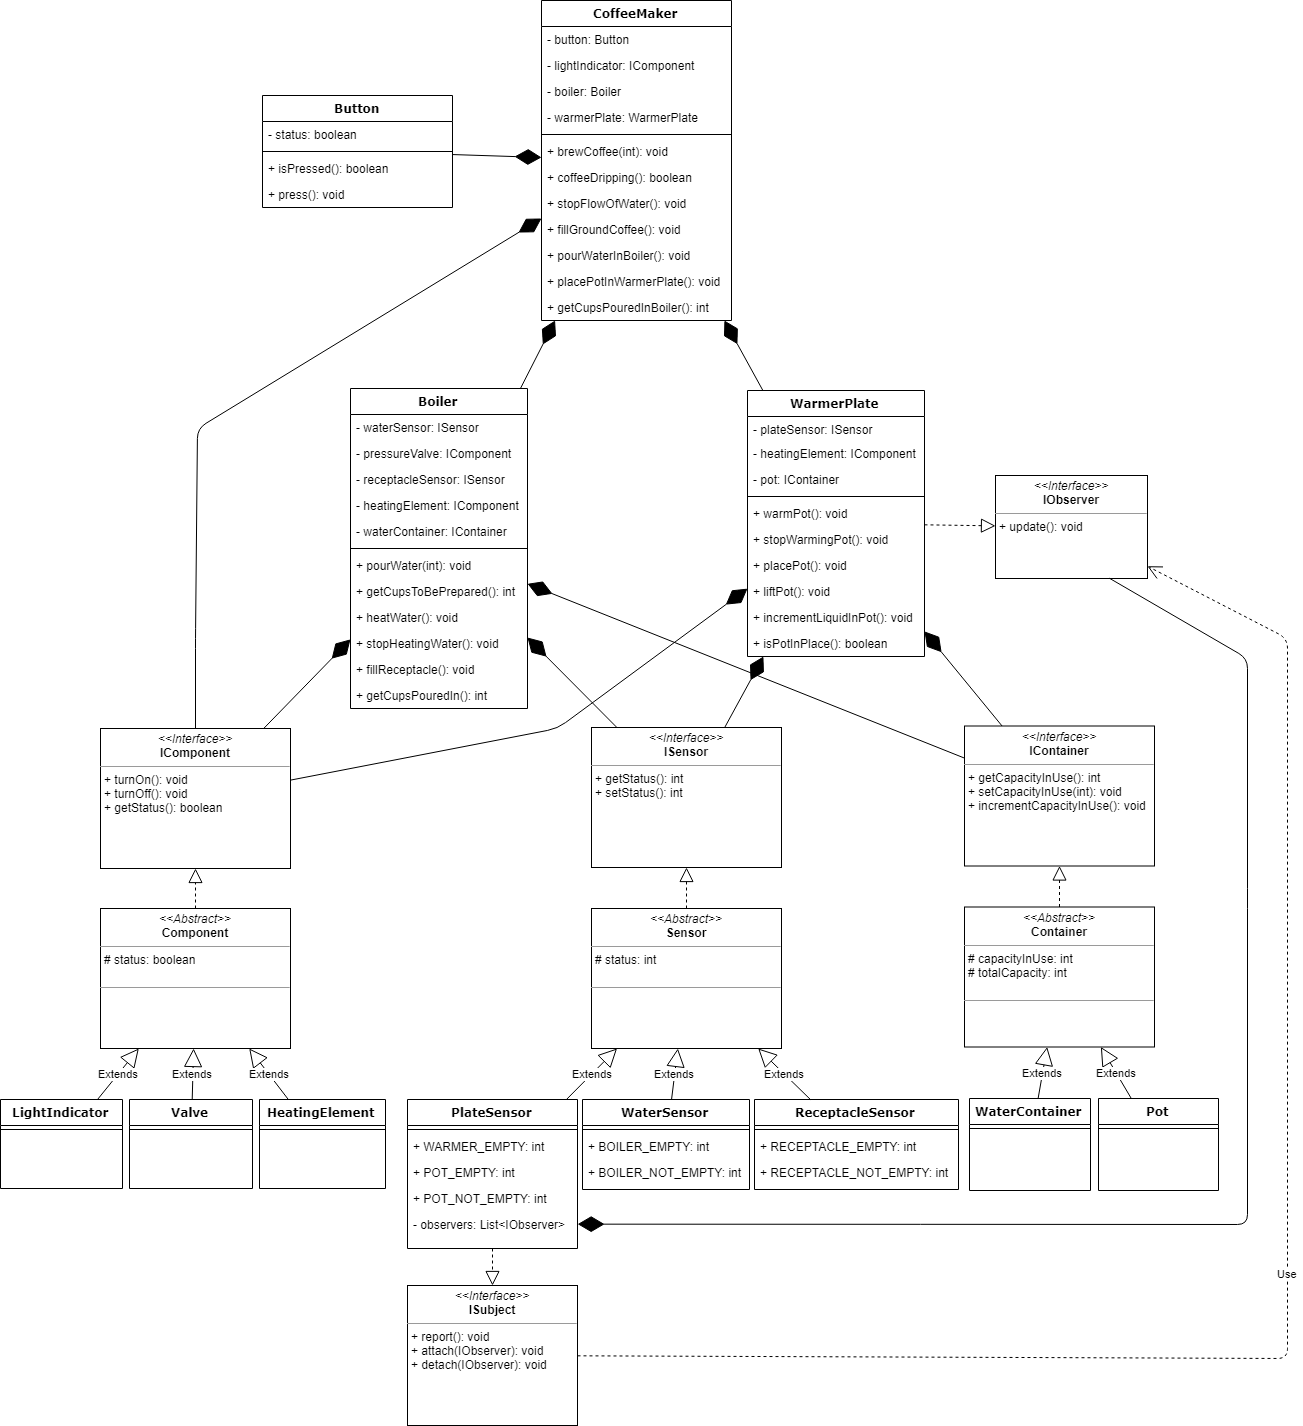
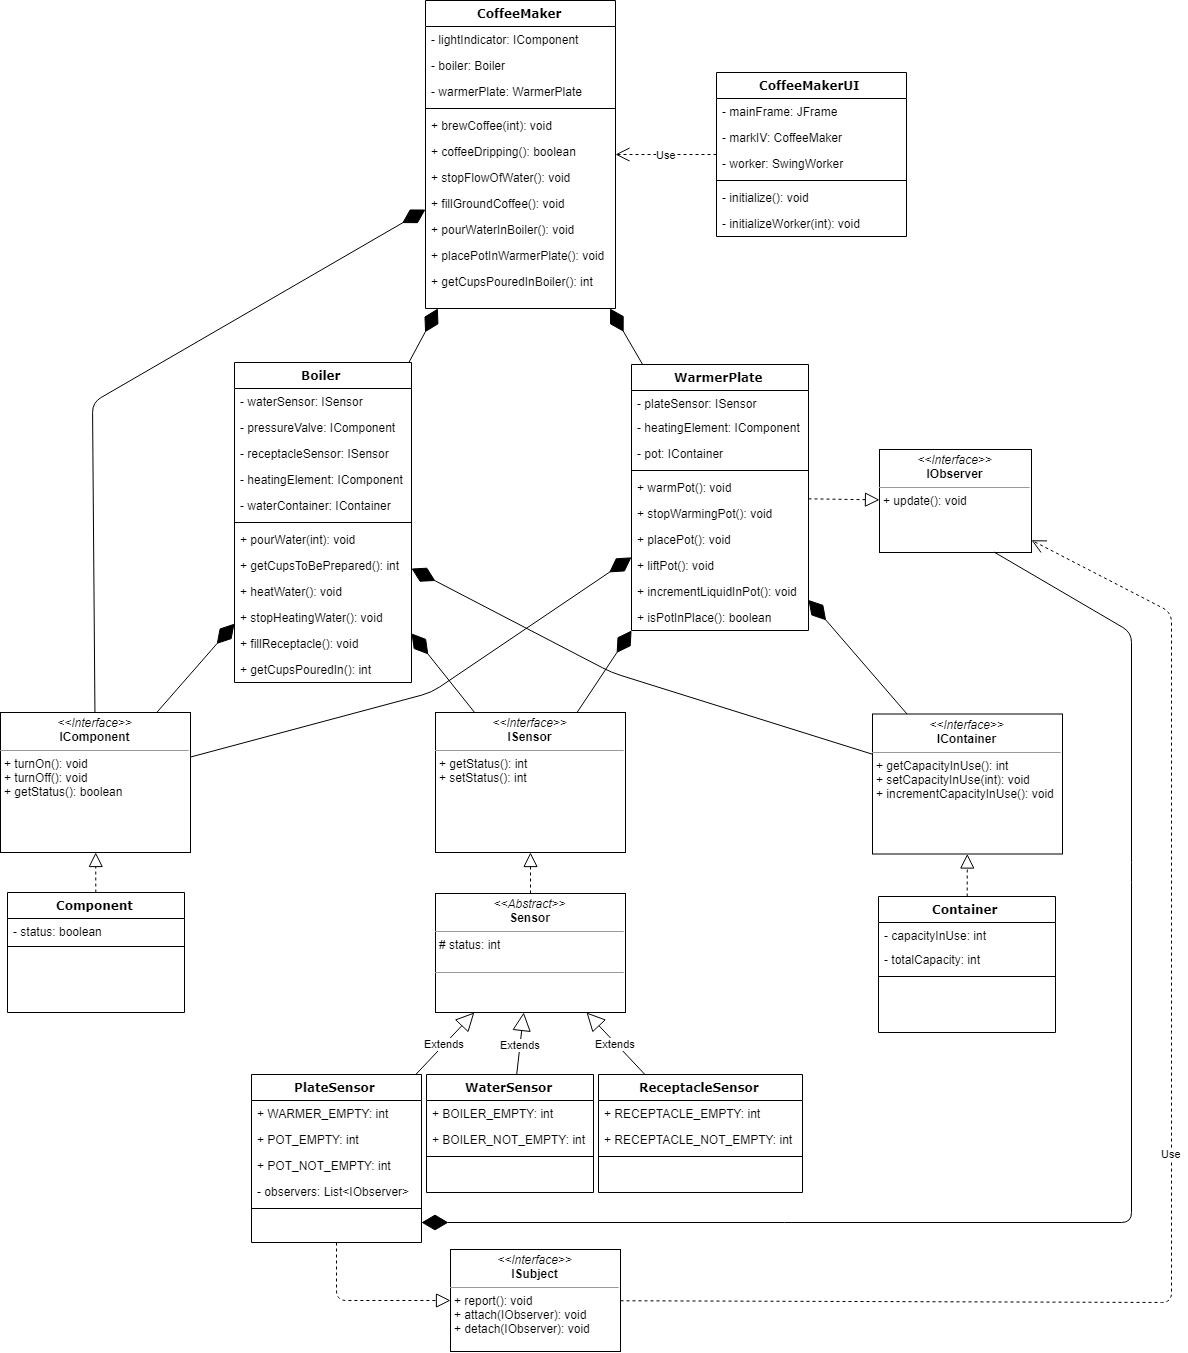
Refactoring, unnecessary classes deleted

diff --git a/src/test/java/IComponentTest.java b/src/test/java/IComponentTest.java
@@ -4,57 +4,38 @@ import static org.junit.Assert.*;
 
 import org.junit.Test;
 
-import main.java.HeatingElement;
+import main.java.Component;
 import main.java.IComponent;
-import main.java.LightIndicator;
-import main.java.Valve;
+
 
 public class IComponentTest {
 
 	@Test
-	public void turnOn_newComponentLightIndicator_correctResult() {
-		IComponent interruptor = new LightIndicator();
+	public void turnOn_correctResult() {
+		IComponent interruptor = new Component();
 		interruptor.turnOn();
 		assertEquals(true, interruptor.getStatus());
 	}
 
 	@Test
-	public void turnOn_newComponentValve_correctResult() {
-		IComponent valve = new Valve();
-		valve.turnOn();
-		assertEquals(true, valve.getStatus());
-	}
-	
-	@Test
-	public void turnOn_newComponentHeatingElement_correctResult() {
-		IComponent heater = new HeatingElement();
-		heater.turnOn();
-		assertEquals(true, heater.getStatus());
-	}
-	
-	@Test
-	public void turnOff_newComponentLightIndicator_correctResult() {
-		IComponent interruptor = new LightIndicator();
-		interruptor.turnOn();
-		interruptor.turnOff();
-		assertEquals(false, interruptor.getStatus());
-	}
-
-	@Test
-	public void turnOff_newComponentValve_correctResult() {
-		IComponent valve = new Valve();
+	public void turnOff_correctResult() {
+		IComponent valve = new Component();
 		valve.turnOn();
 		valve.turnOff();
 		assertEquals(false, valve.getStatus());
 	}
 	
 	@Test
-	public void turnOff_newComponentHeatingElement_correctResult() {
-		IComponent heater = new HeatingElement();
+	public void getStatus_on_correctResult() {
+		IComponent heater = new Component();
 		heater.turnOn();
+		assertEquals(true, heater.getStatus());
+	}
+	
+	@Test
+	public void getStatus_off_correctResult() {
+		IComponent heater = new Component();
 		heater.turnOff();
 		assertEquals(false, heater.getStatus());
 	}
-
-
 }

diff --git a/src/main/java/WarmerPlate.java b/src/main/java/WarmerPlate.java
@@ -7,8 +7,8 @@ public class WarmerPlate implements IObserver {
 
 	public WarmerPlate() {
 		plateSensor = new PlateSensor();
-		heatingElement = new HeatingElement();
-		pot = new Pot(12);// CoffeeMaker's totalCapacity is 12 cups
+		heatingElement = new Component();
+		pot = new Container(12);// CoffeeMaker's totalCapacity is 12 cups
 		((ISubject) plateSensor).attach(this);
 	}
 
@@ -74,10 +74,10 @@ public class WarmerPlate implements IObserver {
 	public void update() {
 		if (plateSensor.getStatus() == PlateSensor.WARMER_EMPTY || plateSensor.getStatus() == PlateSensor.POT_EMPTY) {
 			heatingElement.turnOff();
-			System.out.println("warmerPlate's heatingElement OFF");
+			System.out.println("Warmer plate's heatingElement OFF");
 		} else if (plateSensor.getStatus() == PlateSensor.POT_NOT_EMPTY) {
 			heatingElement.turnOn();
-			System.out.println("warmerPlate's heatingElement ON");
+			System.out.println("Warmer plate's heatingElement ON");
 		}
 	}
 
@@ -88,8 +88,10 @@ public class WarmerPlate implements IObserver {
 		return plateSensor.getStatus() == PlateSensor.POT_EMPTY;
 	}
 	
+	/**
+	 * @return plateSensor's actual status
+	 */
 	public int getSensorStatus() {
 		return plateSensor.getStatus();
 	}
-	
 }

diff --git a/src/test/java/IContainerTest.java b/src/test/java/IContainerTest.java
@@ -4,35 +4,21 @@ import static org.junit.Assert.*;
 
 import org.junit.Test;
 
+import main.java.Container;
 import main.java.IContainer;
-import main.java.Pot;
-import main.java.WaterContainer;
 
 public class IContainerTest {
 
 	@Test
-	public void getCapacityInUse_waterStrainer_correctResult() {
-		IContainer waterStrainer = new WaterContainer(12);
+	public void getCapacityInUse_correctResult() {
+		IContainer waterStrainer = new Container(12);
 		assertEquals(0, waterStrainer.getCapacityInUse());
 	}
 
 	@Test
-	public void getCapacityInUse_Pot_correctResult() {
-		IContainer pot = new Pot(12);
-		assertEquals(0, pot.getCapacityInUse());
-	}
-	
-	@Test
-	public void setCapacityInUse_waterStrainer_correctResult() {
-		IContainer waterStrainer = new WaterContainer(12);
+	public void setCapacityInUse_correctResult() {
+		IContainer waterStrainer = new Container(12);
 		waterStrainer.setCapacityInUse(7);
 		assertEquals(7, waterStrainer.getCapacityInUse());
-	}
-
-	@Test
-	public void setCapacityInUse_Pot_correctResult() {
-		IContainer pot = new Pot(12);
-		pot.setCapacityInUse(11);
-		assertEquals(11, pot.getCapacityInUse());
 	}
 }

diff --git a/src/main/java/Boiler.java b/src/main/java/Boiler.java
@@ -9,10 +9,10 @@ public class Boiler {
 
 	public Boiler() {
 		waterSensor = new WaterSensor();
-		pressureValve = new Valve();
-		heatingElement = new HeatingElement();
+		pressureValve = new Component();
+		heatingElement = new Component();
 		receptacleSensor = new ReceptacleSensor();
-		waterContainer = new WaterContainer(12);// CoffeeMaker's totalCapacity is 12 cups
+		waterContainer = new Container(12);// CoffeeMaker's totalCapacity is 12 cups
 	}
 
 	/**
@@ -42,6 +42,7 @@ public class Boiler {
 		if (waterSensor.getStatus() == WaterSensor.BOILER_NOT_EMPTY
 				&& receptacleSensor.getStatus() == ReceptacleSensor.RECEPTACLE_NOT_EMPTY) {
 			pressureValve.turnOff();
+			System.out.println("Pressure relief valve CLOSED");
 			heatingElement.turnOn();
 			System.out.println("Boiler's heatingElement ON");
 			for (int i = 0; i < waterContainer.getCapacityInUse(); i++) {
@@ -58,6 +59,7 @@ public class Boiler {
 	 */
 	public void stopHeatingWater() {
 		pressureValve.turnOn();
+		System.out.println("Pressure relief valve OPENED");
 		heatingElement.turnOff();
 		System.out.println("Boiler's heatingElement OFF");
 	}

diff --git a/src/main/java/CoffeeMaker.java b/src/main/java/CoffeeMaker.java
@@ -12,14 +12,14 @@ public class CoffeeMaker {
 	 * and warmerPlate
 	 */
 	public CoffeeMaker() {
-		lightIndicator = new LightIndicator();
+		lightIndicator = new Component();
 		boiler = new Boiler();
 		warmerPlate = new WarmerPlate();
 	}
 
 	/**
 	 * Once the button is pressed the CoffeeMaker starts with the brewing process
-	 * First boils water Then starts coffee dripping
+	 * First boils water Then starts coffee dripping.
 	 * 
 	 * @param qtyCups - To start the process it is needed to give the quantity of
 	 *                coffee cups
@@ -31,6 +31,7 @@ public class CoffeeMaker {
 			boiler.heatWater();
 			if (coffeeDripping(qtyCups)) {
 				lightIndicator.turnOn();
+				System.out.println("Coffee ready");
 				System.out.println("Coffee ready");
 			}
 		} else {

diff --git a/src/main/java/Container.java b/src/main/java/Container.java
@@ -1,6 +1,6 @@
 package main.java;
 
-public abstract class Container implements IContainer {
+public class Container implements IContainer {
 	protected int capacityInUse;
 	protected int totalCapacity;
 

diff --git a/src/main/java/Component.java b/src/main/java/Component.java
@@ -1,7 +1,7 @@
 package main.java;
 
 
-public abstract class Component implements IComponent {
+public class Component implements IComponent {
 	protected boolean status;
 
 	public Component() {
